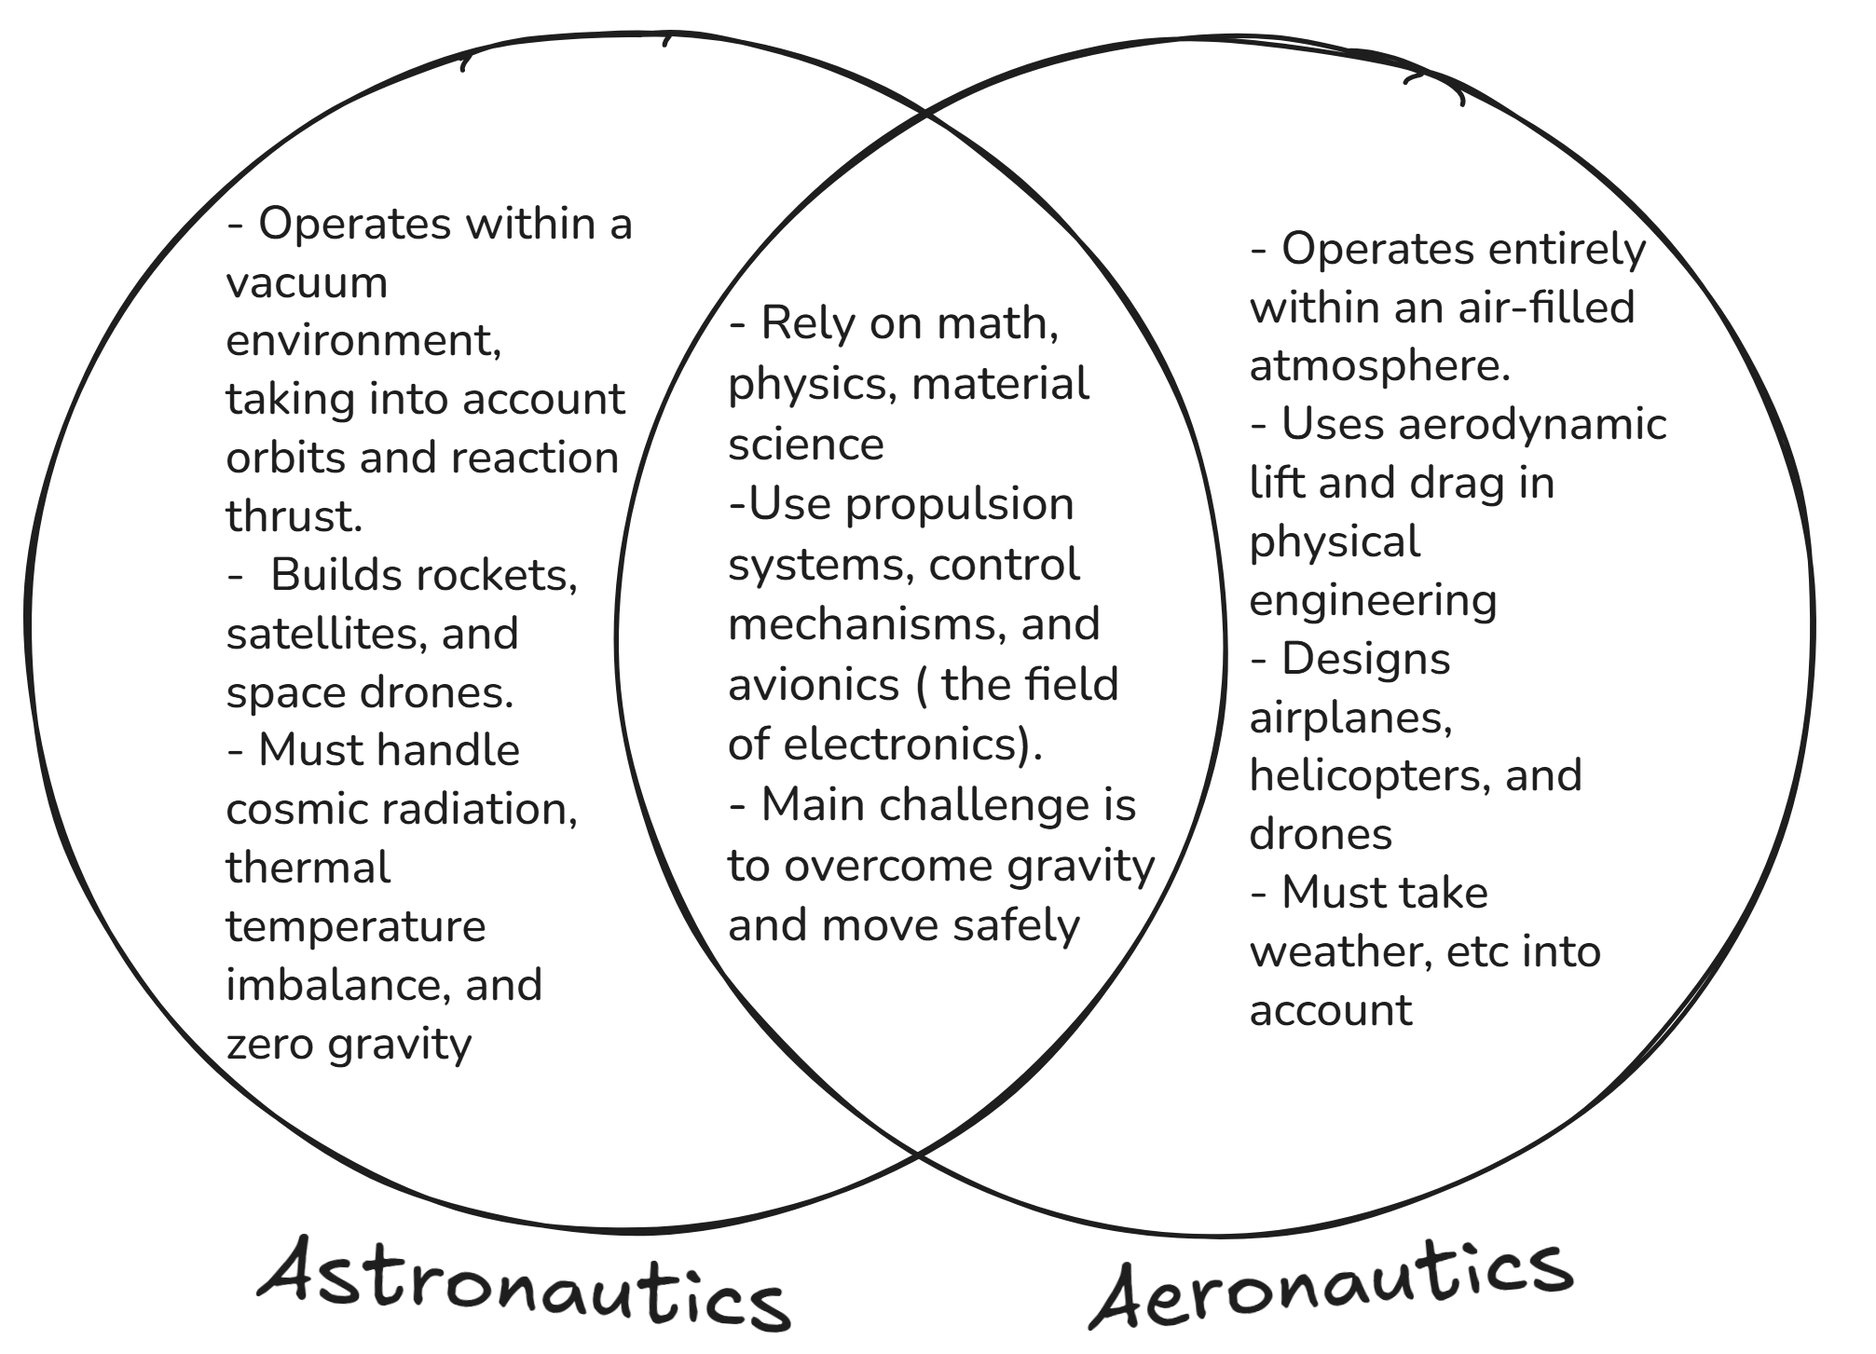
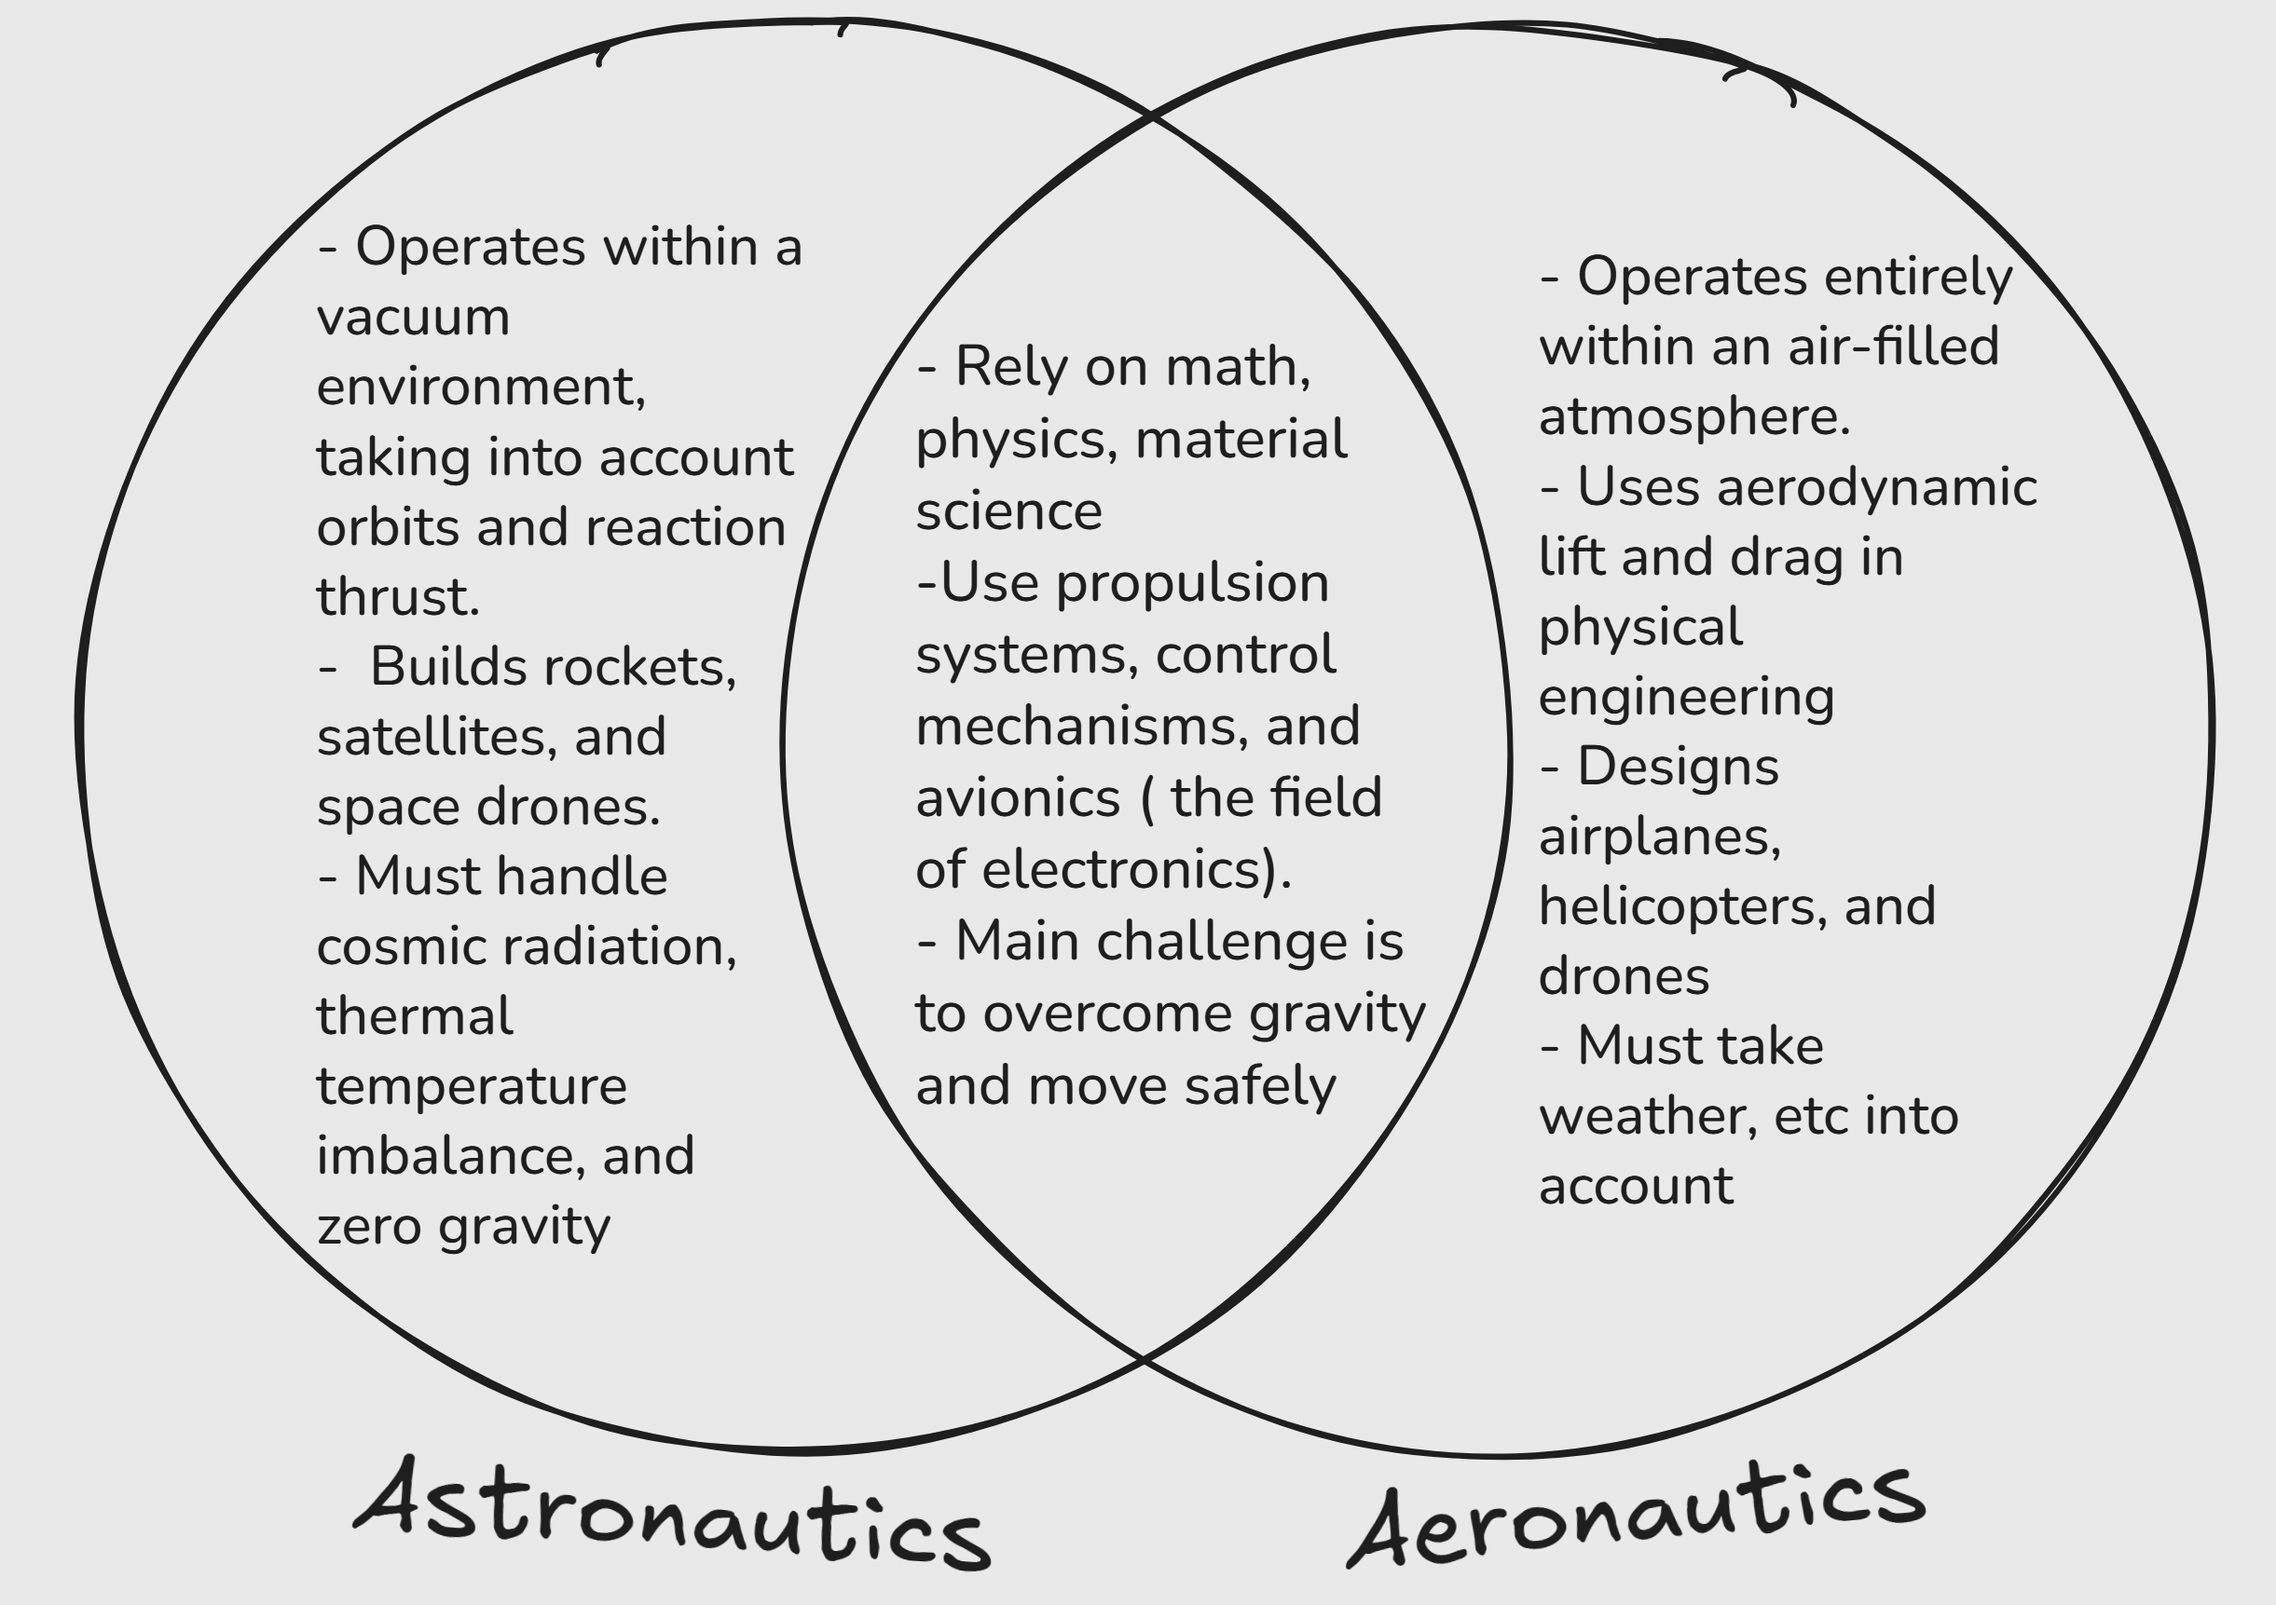
added ethics section to astronautics

diff --git a/astronautics.html b/astronautics.html
@@ -200,7 +200,47 @@
             </div>
             <div class="row">
                 <div class="col-sm-12 p-3">
-                    <h1 class="auto-padding text-center"> <strong> Etihcs on Astronautics </strong> </h1>
+                    <h1 class="auto-padding text-center"> <strong> Ethics on Astronautics </strong> </h1>
+                    <!-- overview-left-padding-->
+                </div>
+            </div>
+            <div class="row">
+                <div class="col-sm-4 p-3">
+                    <h2 class="auto-padding text-center"> <strong> Consideration #1 </strong> </h2>
+                    <!-- overview-left-padding-->
+                </div>
+                <div class="col-sm-4 p-3">
+                    <h2 class="overview-left-padding text-center"> <strong> Consideration #2 </strong> </h2>
+                    <!-- overview-left-padding-->
+                </div>
+                <div class="col-sm-4 p-3">
+                    <h2 class="overview-left-padding text-center"> <strong> Consideration #3 </strong> </h2>
+                    <!-- overview-left-padding-->
+                </div>
+            </div>
+            <div class="row">
+                <div class="col-sm-2 p-3">
+                    <h5 class="auto-padding text-center"> <strong> Consideration #1 </strong> </h5>
+                    <!-- overview-left-padding-->
+                </div>
+                <div class="col-sm-2 p-3">
+                    <img src="img/ethics1.jpg" alt="Goddard" class="card-img-top">
+                    <!-- overview-left-padding-->
+                </div>
+                <div class="col-sm-2 p-3">
+                    <h5 class="auto-padding text-center"> <strong> Consideration #1 </strong> </h5>
+                    <!-- overview-left-padding-->
+                </div>
+                <div class="col-sm-2 p-3">
+                    <img src="img/ethics2.jpg" alt="Goddard" class="card-img-top">
+                    <!-- overview-left-padding-->
+                </div>
+                <div class="col-sm-2 p-3">
+                    <h5 class="auto-padding text-center"> <strong> Consideration #1 </strong> </h5>
+                    <!-- overview-left-padding-->
+                </div>
+                <div class="col-sm-2 p-3">
+                    <img src="img/ethics3.jpg" alt="Goddard" class="card-img-top">
                     <!-- overview-left-padding-->
                 </div>
             </div>
